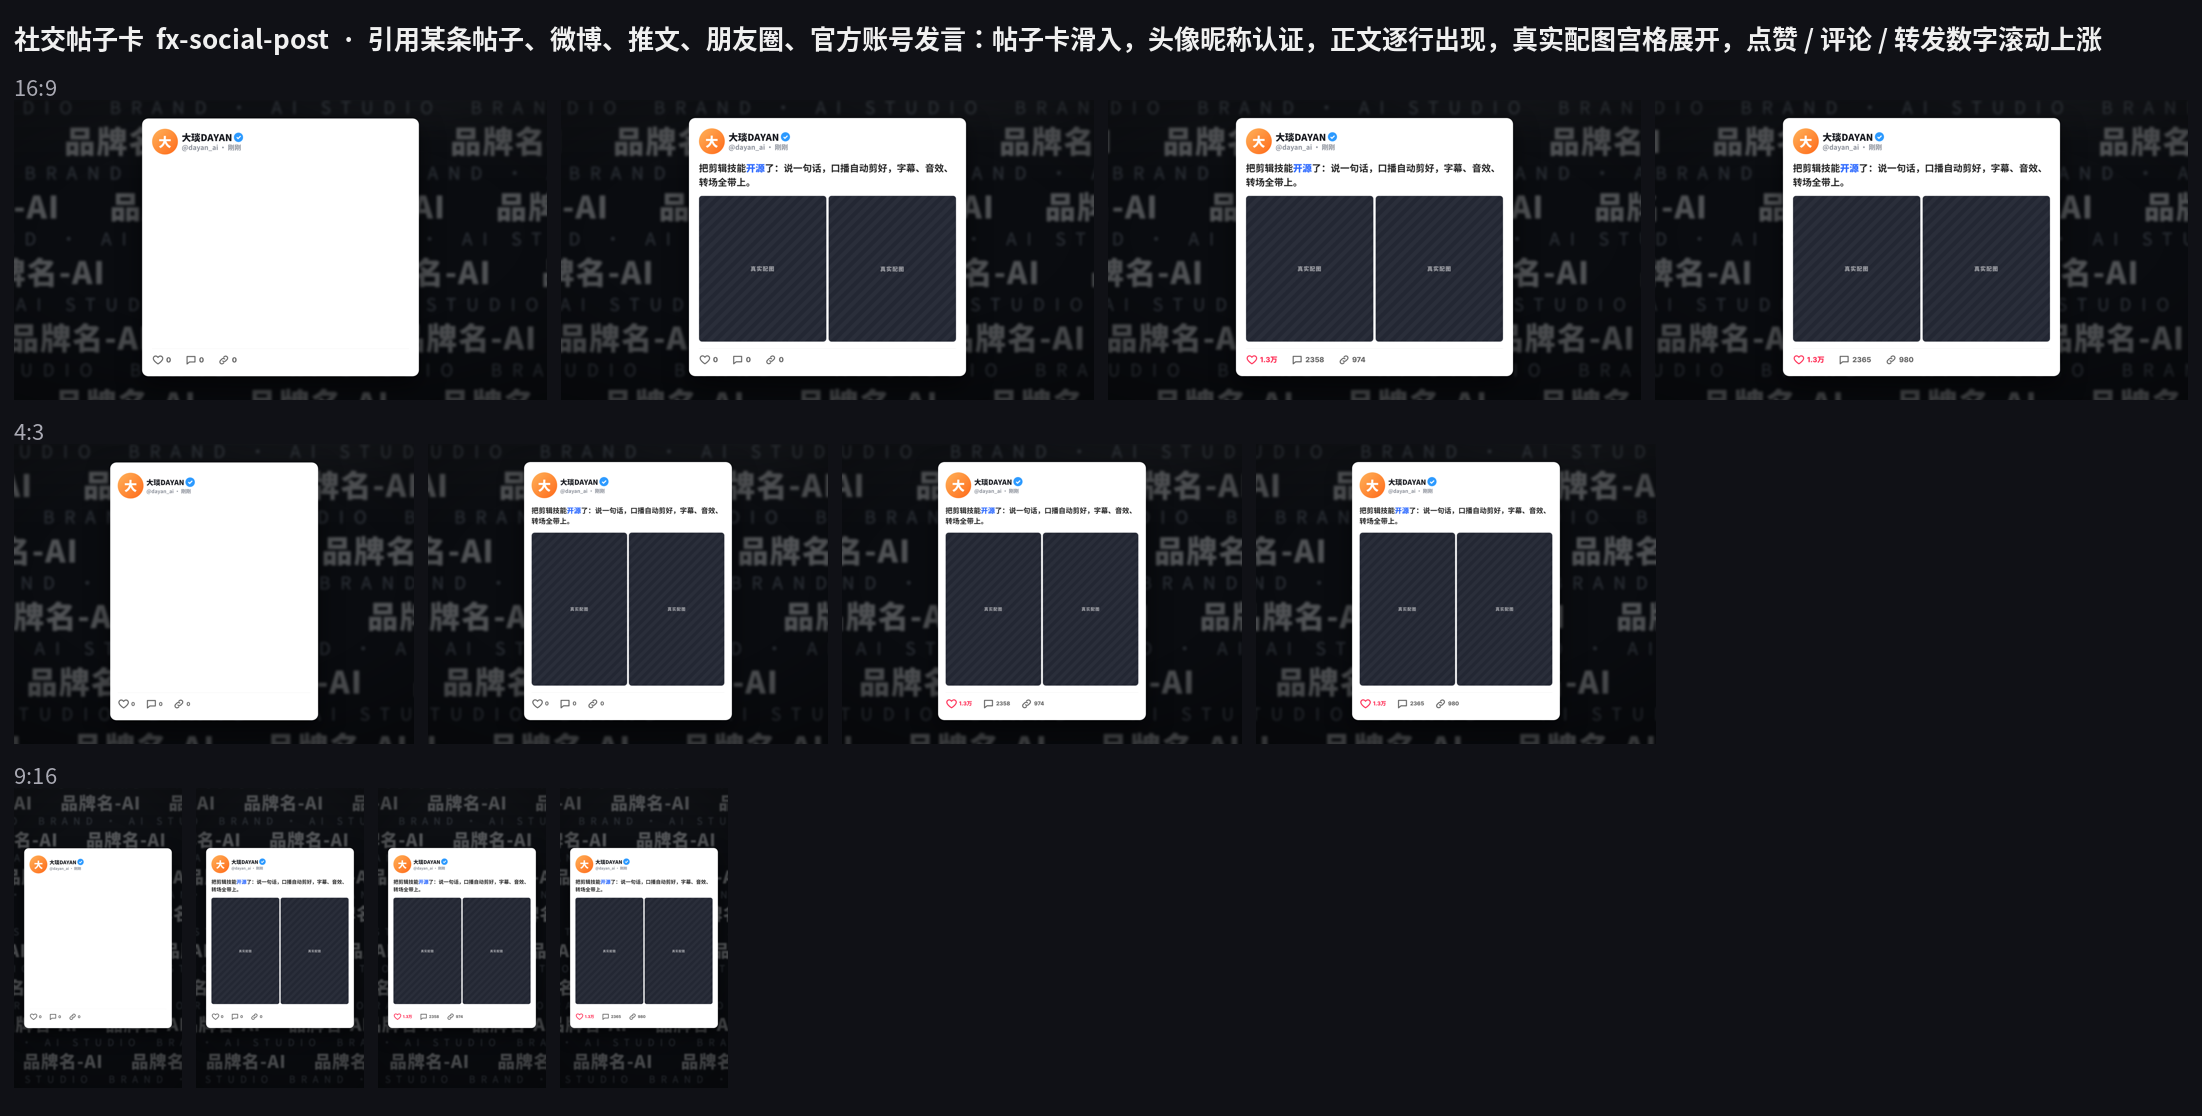
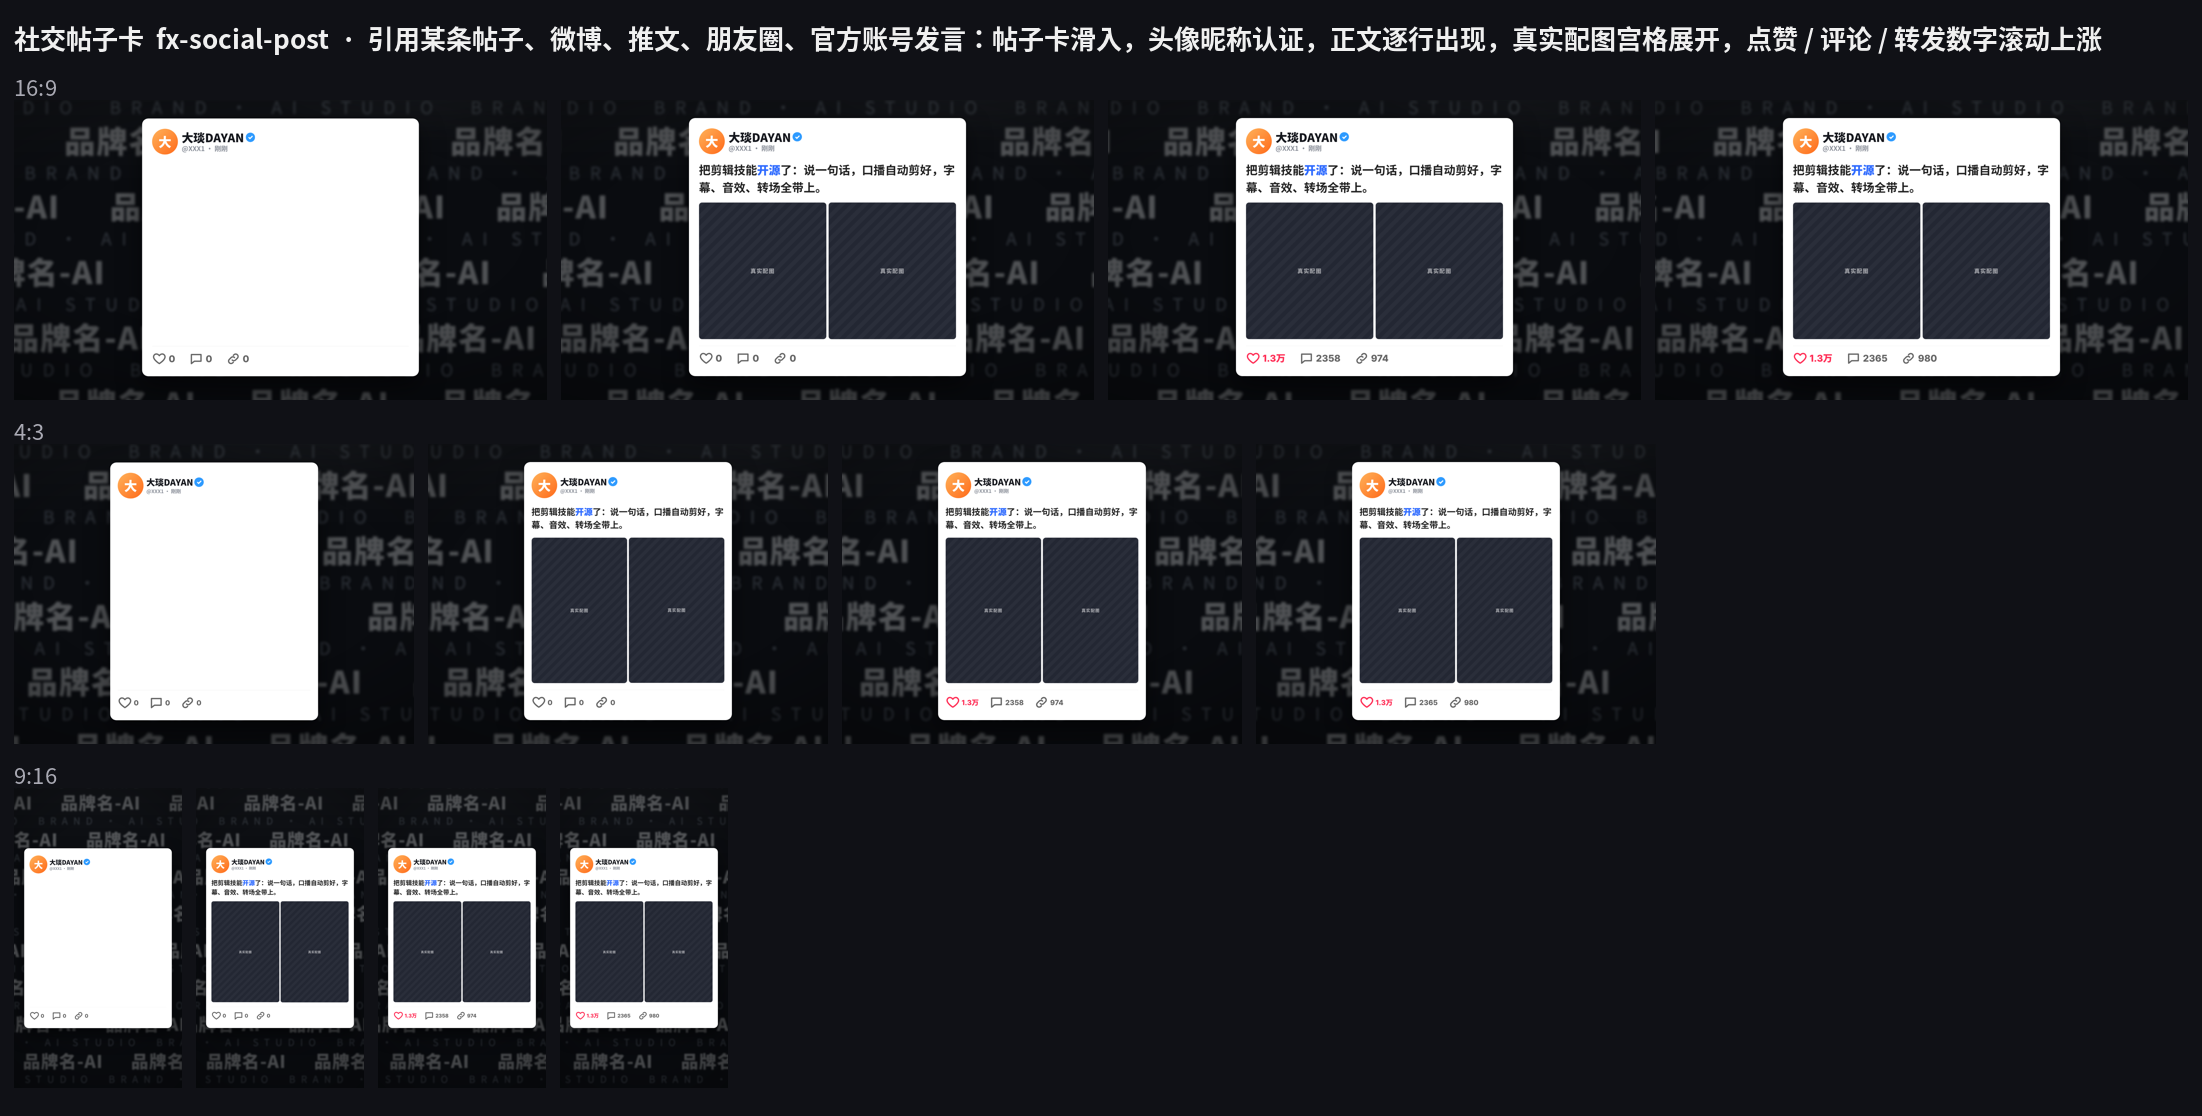
v1.14.1：样板账号统一占位 @XXX1、@XXX2…，用进片子时按口播语义替换；lint 拦下没换掉的占位
Claude-Session: https://claude.ai/code/session_01Qfh7JAYRYE4MtwUZgFRTfn

diff --git a/scripts/dms.py b/scripts/dms.py
@@ -979,6 +979,7 @@ def cmd_library(ns):
     if nosheet: print('\n【缺样张】' + '、'.join(nosheet) + '（dms.py effect check <id>）')
     if notrig: print(f'【缺触发词 triggers】{len(notrig)} 个：' + '、'.join(notrig[:30]) + (' …' if len(notrig) > 30 else '') + '（effect.json 里写口播里会出现的说法，搜索靠它）')
 
+PLACEHOLDER_CARDS = {'T31', 'T33', 'T83', 'T86', 'M15·5'}   # 带样板账号 @XXX1… 的原卡（2026-11-20 统一换成占位）
 EDIT_RULES_SINCE = '2026-11-20'   # 这天以后新建的动效：可编辑性体检有 error 就不能入库；之前的老动效只记下“待升级”，不拦
 _ENUM_KEYS = {'brand', 'skin', 'tint', 'style', 'kind', 'who', 'icon', 'theme', 'look', 'pos', 'align', 'mode', 'dir', 'shape', 'type', 'variant', 'layout', 'color', 'logo', 'img', 'src', 'font', 'ease', 'id', 'preset'}
 def _lengthen(v, key=''):
@@ -1165,6 +1166,17 @@ def cmd_lint(ns):
                 if b[0] < 0.02 or b[0] + b[2] > 0.98: warns.append(f"{s.get('id')}/{L.get('c')}: 贴边，超出安全区")
             txt = json.dumps(L.get('props', {}), ensure_ascii=False) if L.get('c') in ('title', 'stamp', 'chips', 'number', 'compare', 'flow', 'checklist', 'tags', 'equation', 'chapter') else ''
             for m in re.findall(r'"(?:text|title|t)": "([^"]{24,})"', txt): warns.append(f"{s.get('id')}/{L.get('c')}: 文案偏长（{len(m)} 字）：{m[:20]}…，大字建议 ≤12 字")
+            # 样板账号占位 @XXX1、@XXX2…（用户 2026-11-20 定）：用进片子时必须按口播语义换掉，成片里不能留 @XXX
+            pr = L.get('props', {}) or {}
+            def _strs(v):
+                if isinstance(v, str): yield v
+                elif isinstance(v, dict): yield from (x for k, w in v.items() if k != 'replace' for x in _strs(w))
+                elif isinstance(v, list): yield from (x for w in v for x in _strs(w))
+            rp = pr.get('replace') if isinstance(pr.get('replace'), list) else []
+            left = [x for x in list(_strs(pr)) + [str(r[1]) for r in rp if isinstance(r, list) and len(r) > 1] if re.search(r'@XXX\d*', x)]
+            if left: probs.append(f"{s.get('id')}/{L.get('c')}: 账号占位没换：{left[0][:24]}——按口播语义换成真实账号或合适称呼，不需要就换成空")
+            if L.get('c') == 'dayan' and str(pr.get('id', '')) in PLACEHOLDER_CARDS and not any(isinstance(r, list) and str(r[0]).startswith('@XXX') for r in rp):
+                warns.append(f"{s.get('id')}/dayan {pr.get('id')}: 这张原卡里有样板账号 @XXX1…，用 replace 按口播语义换掉（dms.py card {pr.get('id')} 看全部文字）")
     if D and abs(last - D) > 0.1: probs.append(f'分镜结束于 {last:.2f}s，片长 {D:.2f}s')
     keys = sorted([k for k in ((E.get('presenter') or {}).get('keys') or []) if 't' in k], key=lambda k: k['t'])
     for a, b in zip(keys, keys[1:]):

diff --git a/SKILL.md b/SKILL.md
@@ -2,7 +2,7 @@
 name: dayan-motion-studio
 description: 大琰DAYAN 口播自动剪辑 + 动效技能。把口播原片剪成带包装动效、人物窗连续迁移、关键词同步画面、转场音效和字幕的 60fps 成片，并交付可编辑工程（HTML 动画工程、分轨、SRT、Premiere/达芬奇 XML）和一套封面（A 手账贴纸 / B 科技海报 / C 电影海报 × 竖屏 3:4 + 横屏 4:3）；可以安装、调用和制作行业 Motion 模板包。用于"剪口播""自动剪辑""做包装动效""加转场音效""做/装/调用 Motion 模板包""做封面"等请求。
 metadata:
-  version: "1.14.0"
+  version: "1.14.1"
   author: "大琰DAYAN"
 ---
 
@@ -162,6 +162,7 @@ A 和 B 可以混用：不装包时 A 照常工作；装了包，语义匹配到
   - 整面墙统一柔焦 5px，墙字仍然看得清（亮度 k 1.55 补偿）；
   - 前景动效背后**不再**加局部模糊（`depth` 保持关闭）。
   - `lint` 会提示偏离标准的参数；只有用户明确要求时才改。
+- **样板账号一律占位（用户 2026-11-20 要求）**：原卡、动效库、示例参数里所有像账号的文字（@昵称、用户名）都写成 `@XXX1`、`@XXX2`……（同一张卡里按出现顺序编号），技能里不出现任何真实或像真实的账号。用进片子时按本期口播语义替换：口播讲到具体账号就写那个账号；泛指（同行、粉丝、学员、评论区）就换成贴合语义的称呼；用不上就换成空。原卡用 `replace: [["@XXX1", "…"], …]`，新动效直接写参数。成片里不能留下 `@XXX`——lint 会拦。新做动效、写示例参数时，账号同样用 `@XXX` 占位。
 - **参考博主匿名（用户 2026-11-07 要求，2026-11-20 明确范围）**：**只管技能仓库里从别人那里学来的东西**——蒸馏、复刻其他博主的剪辑风格和动画效果时，写进手册、playbook、模板包说明、代码注释、交付文档的一律**不出现真实身份**——不写博主名字/昵称、账号、品牌或节目名、视频标题、视频编号或链接、粉丝数等后台数据、本人自有产品名、能认出是谁的私人细节；改用风格代号（「风格 E · 一句话风格描述」，参考片记作 E1、E2…），只记录风格本身：剪辑节奏、人物窗与动效的关系、画面怎么生成、语义怎么编排。原片文件名里的标题和编号也不要抄进文档。**这条不管口播内容本身**：口播里讲到某个博主、某个作品时，照常去找他的抖音 / YouTube / TikTok / X 主页、作品页的真实截图放进片子。
 - **声音**：音效只用 `assets/sfx/` 里核对过授权的 CC0 采样和技能合成音效；新增采样必须是 CC0 或用户有权使用的，并写进 `assets/sfx/LICENSES.md`。默认不加背景音乐。
 - **检查要说实话**：看过静帧、拖过连续片段、跑过完整解码、量过响度，分别说清楚；你听不到声音，就请用户试听。

diff --git a/CHANGELOG.md b/CHANGELOG.md
@@ -1,5 +1,10 @@
 # 更新记录
 
+- **1.14.1**（用户 2026-11-20 要求：技能里像账号的文字统一隐藏成占位，用到时再按口播语义替换）：
+  - 原卡里的样板账号统一换成 `@XXX1`、`@XXX2`…（同一张卡按出现顺序编号）：T31、T33、T83、T86（6 个）、M15·5（3 个）；`fx-social-post` 示例账号也改成 `@XXX1`。
+  - 新规则（SKILL.md、dayan-library.md）：用进片子时按口播语义换成真实账号 / 合适称呼 / 空；成片不能留 `@XXX`。
+  - lint：图层参数或 `replace` 的替换结果里还有 `@XXX` 算错误；用了带占位账号的原卡却没替换，给提示。
+
 - **1.14.0**（用户 2026-11-20 要求：工程要能在剪辑台里改字、改配色、拖动缩放任意元素，改了不能错位断开；连线箭头要自动跟随；把要求写死进入库流程）：
   - 新规范 `references/editable.md`「可编辑动效规范」十条硬规则：连线两端绑元素自动跟随、附着装饰跟着被装饰元素走、一个节点一个容器、文字自适应不出框、flex / grid 互相让位、数字和图形同参数、逐字 / 副本运行时生成、动画不占用 translate / scale / rotate、颜色走 CSS 变量、可编辑元素写稳定编号 `data-edit`。
   - 引擎新增 `DMS.link(根, 起点, 终点, 选项)`：每帧按两端元素当前位置重画连线 / 箭头，拖动、缩放、文字变长都接得上，自动选接口方向，画线进度按真实长度算。

diff --git a/references/dayan-library.md b/references/dayan-library.md
@@ -14,7 +14,7 @@
    ```json
    {"c": "dayan", "cue": "价格", "box": "full", "props": {"id": "M03·2", "text": {"title": "¥129 / 月"}, "wall": "platinum"}}
    ```
-   原卡的署名、账号、文字墙自动换成使用者自己的品牌（edit.json 的 `brand`）。原卡是 1920×1080 横屏布局，竖屏片子不要直接嵌。
+   原卡的署名、账号、文字墙自动换成使用者自己的品牌（edit.json 的 `brand`）。卡里其他像账号的样板文字统一是占位 `@XXX1`、`@XXX2`…（T31、T33、T83、T86、M15·5），按口播语义用 `replace` 换掉，成片里不能留 `@XXX`（lint 会拦）。原卡是 1920×1080 横屏布局，竖屏片子不要直接嵌。
    查卡：`references/catalog.md`（按语义分组的完整目录）、`dms.py catalog 关键词`，或浏览器打开 `assets/dayan-library.html`。
 
 | 库内阶段 / 族 | 典型卡 | 升级版组件 |
